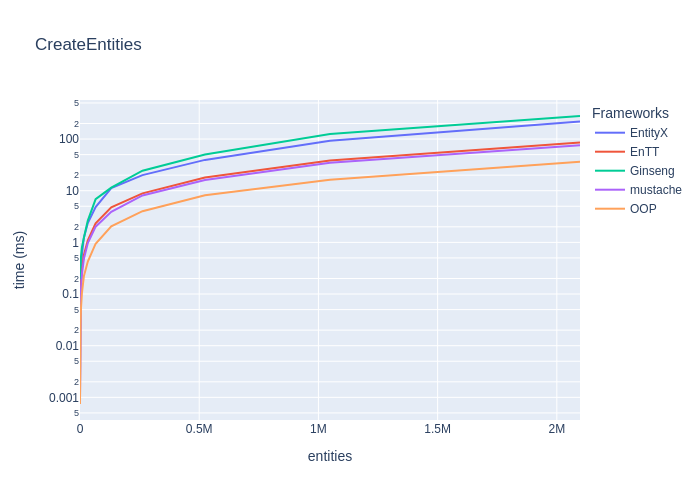
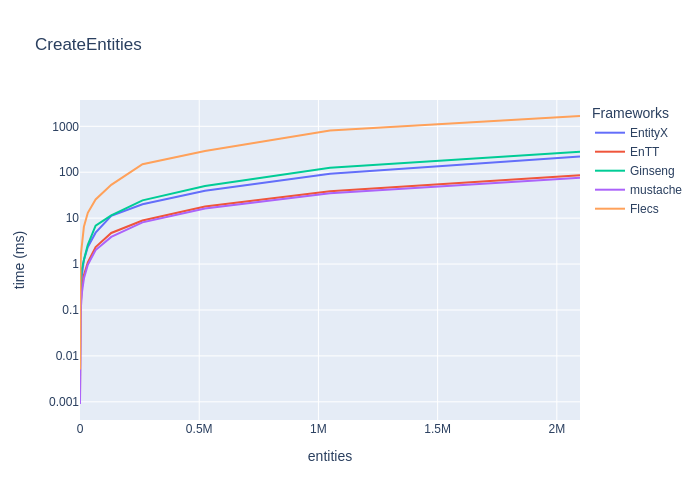
update README.md

diff --git a/README.md b/README.md
@@ -4,6 +4,7 @@ Simple Benchmark of common Entity-Component-Systems:
 
 * [EntityX](https://github.com/alecthomas/entityx)
 * [EnTT](https://github.com/skypjack/entt)
+* [flecs](https://github.com/SanderMertens/flecs)
 * [Ginseng](https://github.com/apples/ginseng)
 * [mustache](https://github.com/kirillochnev/mustache)
 * [OpenEcs](https://github.com/Gronis/OpenEcs)
@@ -13,14 +14,15 @@ Simple Benchmark of common Entity-Component-Systems:
 ![Summary SystemsUpdate Plot](img/SystemsUpdate.png)
 _(lower is faster)_
 
-|                                      | EntityX   | EnTT    | Ginseng   | mustache   |
-|:-------------------------------------|:----------|:--------|:----------|:-----------|
-| Update   16K entities with 2 Systems | 0.0022s   | 0.0004s | 0.0017s   | 0.0011s    |
-| Update   65K entities with 2 Systems | 0.0090s   | 0.0016s | 0.0053s   | 0.0052s    |
-| Update  262K entities with 2 Systems | 0.0339s   | 0.0062s | 0.0166s   | 0.0199s    |
-| Update  524K entities with 2 Systems | 0.0681s   | 0.0132s | 0.0336s   | 0.0357s    |
-| Update    1M entities with 2 Systems | 0.1069s   | 0.0264s | 0.0579s   | 0.0683s    |
-| Update    2M entities with 2 Systems | 0.2929s   | 0.0508s | 0.1374s   | 0.1323s    |
+
+|                                      | EntityX   | EnTT    | Ginseng   | mustache   | Flecs       |
+|:-------------------------------------|:----------|:--------|:----------|:-----------|:------------|
+| Update   16K entities with 2 Systems | 0.0022s   | 0.0004s | 0.0017s   | 0.0011s    | **0.0003s** |
+| Update   65K entities with 2 Systems | 0.0090s   | 0.0016s | 0.0053s   | 0.0052s    | **0.0012s** |
+| Update  262K entities with 2 Systems | 0.0339s   | 0.0062s | 0.0166s   | 0.0199s    | **0.0045s** |
+| Update  524K entities with 2 Systems | 0.0681s   | 0.0132s | 0.0336s   | 0.0357s    | **0.0089s** |
+| Update    1M entities with 2 Systems | 0.1069s   | 0.0264s | 0.0579s   | 0.0683s    | **0.0175s** |
+| Update    2M entities with 2 Systems | 0.2929s   | 0.0508s | 0.1374s   | 0.1323s    | **0.0329s** |
 
 ### Environment
 
@@ -55,14 +57,14 @@ Each framework has a sub-project in [`src/`](src) and must implement certain fea
 ![CreateEntities Plot](img/CreateEntities.png)
 _(lower is better)_
 
-|                                           | EntityX   | EnTT    | Ginseng   | mustache   | OOP     |
-|:------------------------------------------|:----------|:--------|:----------|:-----------|:--------|
-| Create   16K entities with two Components | 0.0012s   | 0.0006s | 0.0012s   | 0.0005s    | 0.0002s |
-| Create   65K entities with two Components | 0.0048s   | 0.0023s | 0.0069s   | 0.0020s    | 0.0009s |
-| Create  262K entities with two Components | 0.0200s   | 0.0089s | 0.0244s   | 0.0081s    | 0.0040s |
-| Create  524K entities with two Components | 0.0395s   | 0.0180s | 0.0502s   | 0.0161s    | 0.0082s |
-| Create    1M entities with two Components | 0.0923s   | 0.0385s | 0.1250s   | 0.0349s    | 0.0164s |
-| Create    2M entities with two Components | 0.2191s   | 0.0855s | 0.2793s   | 0.0762s    | 0.0365s |
+|                                           | EntityX   | EnTT    | Ginseng   | mustache    | Flecs   |
+|:------------------------------------------|:----------|:--------|:----------|:------------|:--------|
+| Create   16K entities with two Components | 0.0012s   | 0.0006s | 0.0012s   | **0.0005s** | 0.0065s |
+| Create   65K entities with two Components | 0.0048s   | 0.0023s | 0.0069s   | **0.0020s** | 0.0256s |
+| Create  262K entities with two Components | 0.0200s   | 0.0089s | 0.0244s   | **0.0081s** | 0.1498s |
+| Create  524K entities with two Components | 0.0395s   | 0.0180s | 0.0502s   | **0.0161s** | 0.2904s |
+| Create    1M entities with two Components | 0.0923s   | 0.0385s | 0.1250s   | **0.0349s** | 0.8126s |
+| Create    2M entities with two Components | 0.2191s   | 0.0855s | 0.2793s   | **0.0762s** | 1.6758s |
 
 
 ### Destroy Entities
@@ -70,15 +72,14 @@ _(lower is better)_
 ![DestroyEntities Plot](img/DestroyEntities.png)
 _(lower is faster)_
 
-|                                            | EntityX   | EnTT    | Ginseng   | mustache   | OOP        |
-|:-------------------------------------------|:----------|:--------|:----------|:-----------|:-----------|
-| Destroy    4K entities with two Components | 0.0001s   | 0.0002s | 0.0004s   | 0.0001s    | 0.0056s    |
-| Destroy   16K entities with two Components | 0.0006s   | 0.0006s | 0.0020s   | 0.0003s    | 0.1028s    |
-| Destroy   65K entities with two Components | 0.0023s   | 0.0029s | 0.0070s   | 0.0011s    | 3.0647s    |
-| Destroy  262K entities with two Components | 0.0092s   | 0.0099s | 0.0308s   | 0.0046s    | 45.8033s   |
-| Destroy  524K entities with two Components | 0.0195s   | 0.0199s | 0.0660s   | 0.0093s    | 189.8928s  |
-| Destroy    1M entities with two Components | 0.0388s   | 0.0452s | 0.2165s   | 0.0193s    | 801.6220s  |
-| Destroy    2M entities with two Components | 0.0831s   | 0.1056s | 0.3556s   | 0.0396s    | 3264.5848s |
+|                                            | EntityX   | EnTT    | Ginseng   | mustache    | Flecs   |
+|:-------------------------------------------|:----------|:--------|:----------|:------------|:--------|
+| Destroy   16K entities with two Components | 0.0006s   | 0.0006s | 0.0020s   | **0.0003s** | 0.0013s |
+| Destroy   65K entities with two Components | 0.0023s   | 0.0029s | 0.0070s   | **0.0011s** | 0.0050s |
+| Destroy  262K entities with two Components | 0.0092s   | 0.0099s | 0.0308s   | **0.0046s** | 0.0213s |
+| Destroy  524K entities with two Components | 0.0195s   | 0.0199s | 0.0660s   | **0.0093s** | 0.0435s |
+| Destroy    1M entities with two Components | 0.0388s   | 0.0452s | 0.2165s   | **0.0193s** | 0.1073s |
+| Destroy    2M entities with two Components | 0.0831s   | 0.1056s | 0.3556s   | **0.0396s** | 0.2116s |
 
 
 ### Get one component from Entity
@@ -86,14 +87,14 @@ _(lower is faster)_
 ![UnpackOneComponent Plot](img/UnpackOneComponent.png)
 _(lower is faster)_
 
-|                                        | EntityX   | EnTT    | Ginseng   | mustache   | OOP     |
-|:---------------------------------------|:----------|:--------|:----------|:-----------|:--------|
-| Unpack one Component in   16K entities | 0.0001s   | 0.0002s | 0.0001s   | 0.0003s    | 0.0003s |
-| Unpack one Component in   65K entities | 0.0003s   | 0.0006s | 0.0006s   | 0.0013s    | 0.0013s |
-| Unpack one Component in  262K entities | 0.0015s   | 0.0032s | 0.0062s   | 0.0054s    | 0.0054s |
-| Unpack one Component in  524K entities | 0.0028s   | 0.0058s | 0.0109s   | 0.0108s    | 0.0117s |
-| Unpack one Component in    1M entities | 0.0061s   | 0.0108s | 0.0206s   | 0.0219s    | 0.0216s |
-| Unpack one Component in    2M entities | 0.0117s   | 0.0216s | 0.0430s   | 0.0434s    | 0.0432s |
+|                                        | EntityX     | EnTT    | Ginseng     | mustache   | Flecs   |
+|:---------------------------------------|:------------|:--------|:------------|:-----------|:--------|
+| Unpack one Component in   16K entities | **0.0001s** | 0.0002s | **0.0001s** | 0.0003s    | 0.0020s |
+| Unpack one Component in   65K entities | **0.0003s** | 0.0006s | 0.0006s     | 0.0013s    | 0.0082s |
+| Unpack one Component in  262K entities | **0.0015s** | 0.0032s | 0.0062s     | 0.0054s    | 0.0330s |
+| Unpack one Component in  524K entities | **0.0028s** | 0.0058s | 0.0109s     | 0.0108s    | 0.0681s |
+| Unpack one Component in    1M entities | **0.0061s** | 0.0108s | 0.0206s     | 0.0219s    | 0.1342s |
+| Unpack one Component in    2M entities | **0.0117s** | 0.0216s | 0.0430s     | 0.0434s    | 0.2719s |
 
 
 ### Get two components from Entity
@@ -101,14 +102,14 @@ _(lower is faster)_
 ![UnpackTwoComponents Plot](img/UnpackTwoComponents.png)
 _(lower is faster)_
 
-|                                        | EntityX   | EnTT    | Ginseng   | mustache   | OOP     |
-|:---------------------------------------|:----------|:--------|:----------|:-----------|:--------|
-| Unpack two Component in   16K entities | 0.0003s   | 0.0003s | 0.0004s   | 0.0006s    | 0.0006s |
-| Unpack two Component in   65K entities | 0.0008s   | 0.0013s | 0.0023s   | 0.0024s    | 0.0024s |
-| Unpack two Component in  262K entities | 0.0033s   | 0.0052s | 0.0081s   | 0.0099s    | 0.0097s |
-| Unpack two Component in  524K entities | 0.0078s   | 0.0102s | 0.0185s   | 0.0201s    | 0.0194s |
-| Unpack two Component in    1M entities | 0.0137s   | 0.0216s | 0.0481s   | 0.0398s    | 0.0389s |
-| Unpack two Component in    2M entities | 0.0268s   | 0.0420s | 0.0675s   | 0.0800s    | 0.0779s |
+|                                        | EntityX     | EnTT    | Ginseng   | mustache   | Flecs   |
+|:---------------------------------------|:------------|:--------|:----------|:-----------|:--------|
+| Unpack two Component in   16K entities | **0.0003s** | 0.0003s | 0.0004s   | 0.0006s    | 0.0040s |
+| Unpack two Component in   65K entities | **0.0008s** | 0.0013s | 0.0023s   | 0.0024s    | 0.0162s |
+| Unpack two Component in  262K entities | **0.0033s** | 0.0052s | 0.0081s   | 0.0099s    | 0.0657s |
+| Unpack two Component in  524K entities | **0.0078s** | 0.0102s | 0.0185s   | 0.0201s    | 0.1312s |
+| Unpack two Component in    1M entities | **0.0137s** | 0.0216s | 0.0481s   | 0.0398s    | 0.2708s |
+| Unpack two Component in    2M entities | **0.0268s** | 0.0420s | 0.0675s   | 0.0800s    | 0.5280s |
 
 
 ### Get three components from Entity
@@ -116,14 +117,14 @@ _(lower is faster)_
 ![UnpackThreeComponentsFromMixedEntities Plot](img/UnpackThreeComponentsFromMixedEntities.png)
 _(lower is faster)_
 
-|                                          | EntityX   | EnTT    | Ginseng   | mustache   | OOP     |
-|:-----------------------------------------|:----------|:--------|:----------|:-----------|:--------|
-| Unpack three Component in   16K entities | 0.0004s   | 0.0005s | 0.0010s   | 0.0008s    | 0.0017s |
-| Unpack three Component in   65K entities | 0.0011s   | 0.0019s | 0.0035s   | 0.0034s    | 0.0070s |
-| Unpack three Component in  262K entities | 0.0062s   | 0.0081s | 0.0143s   | 0.0170s    | 0.0285s |
-| Unpack three Component in  524K entities | 0.0091s   | 0.0174s | 0.0268s   | 0.0324s    | 0.0722s |
-| Unpack three Component in    1M entities | 0.0199s   | 0.0318s | 0.0563s   | 0.0624s    | 0.1135s |
-| Unpack three Component in    2M entities | 0.0391s   | 0.0625s | 0.1550s   | 0.1247s    | 0.2264s |
+|                                          | EntityX     | EnTT    | Ginseng   | mustache   | Flecs   |
+|:-----------------------------------------|:------------|:--------|:----------|:-----------|:--------|
+| Unpack three Component in   16K entities | **0.0004s** | 0.0005s | 0.0010s   | 0.0008s    | 0.0064s |
+| Unpack three Component in   65K entities | **0.0011s** | 0.0019s | 0.0035s   | 0.0034s    | 0.0265s |
+| Unpack three Component in  262K entities | **0.0062s** | 0.0081s | 0.0143s   | 0.0170s    | 0.1237s |
+| Unpack three Component in  524K entities | **0.0091s** | 0.0174s | 0.0268s   | 0.0324s    | 0.2544s |
+| Unpack three Component in    1M entities | **0.0199s** | 0.0318s | 0.0563s   | 0.0624s    | 0.6363s |
+| Unpack three Component in    2M entities | **0.0391s** | 0.0625s | 0.1550s   | 0.1247s    | 1.2613s |
 
 
 ### System Updates (for-each entities with 2 Systems)
@@ -131,26 +132,40 @@ _(lower is faster)_
 ![SystemsUpdate Plot](img/SystemsUpdate.png)
 _(lower is faster)_
 
-|                                      | EntityX   | EnTT    | Ginseng   | mustache   | OOP     |
-|:-------------------------------------|:----------|:--------|:----------|:-----------|:--------|
-| Update   16K entities with 2 Systems | 0.0022s   | 0.0004s | 0.0017s   | 0.0011s    | 0.0003s |
-| Update   65K entities with 2 Systems | 0.0090s   | 0.0016s | 0.0053s   | 0.0052s    | 0.0014s |
-| Update  262K entities with 2 Systems | 0.0339s   | 0.0062s | 0.0166s   | 0.0199s    | 0.0062s |
-| Update  524K entities with 2 Systems | 0.0681s   | 0.0132s | 0.0336s   | 0.0357s    | 0.0123s |
-| Update    1M entities with 2 Systems | 0.1069s   | 0.0264s | 0.0579s   | 0.0683s    | 0.0254s |
-| Update    2M entities with 2 Systems | 0.2929s   | 0.0508s | 0.1374s   | 0.1323s    | 0.0506s |
+|                                      | EntityX   | EnTT    | Ginseng   | mustache   | Flecs       |
+|:-------------------------------------|:----------|:--------|:----------|:-----------|:------------|
+| Update   16K entities with 2 Systems | 0.0022s   | 0.0004s | 0.0017s   | 0.0011s    | **0.0003s** |
+| Update   65K entities with 2 Systems | 0.0090s   | 0.0016s | 0.0053s   | 0.0052s    | **0.0012s** |
+| Update  262K entities with 2 Systems | 0.0339s   | 0.0062s | 0.0166s   | 0.0199s    | **0.0045s** |
+| Update  524K entities with 2 Systems | 0.0681s   | 0.0132s | 0.0336s   | 0.0357s    | **0.0089s** |
+| Update    1M entities with 2 Systems | 0.1069s   | 0.0264s | 0.0579s   | 0.0683s    | **0.0175s** |
+| Update    2M entities with 2 Systems | 0.2929s   | 0.0508s | 0.1374s   | 0.1323s    | **0.0329s** |
 
+
+### System Updates (for-each entities with 3 Systems)
+
+![ComplexSystemsUpdate Plot](img/ComplexSystemsUpdate.png)
+_(lower is faster)_
+
+|                                      | EntityX   | EnTT    | Ginseng   | mustache   | Flecs       | _OOP_       |
+|:-------------------------------------|:----------|:--------|:----------|:-----------|:------------|:------------|
+| Update   16K entities with 3 Systems | 0.0031s   | 0.0016s | 0.0014s   | 0.0024s    | **0.0012s** | **0.0003s** |
+| Update   65K entities with 3 Systems | 0.0125s   | 0.0056s | 0.0059s   | 0.0097s    | **0.0048s** | **0.0014s** |
+| Update  262K entities with 3 Systems | 0.0506s   | 0.0231s | 0.0240s   | 0.0404s    | **0.0200s** | **0.0061s** |
+| Update  524K entities with 3 Systems | 0.1008s   | 0.0462s | 0.0589s   | 0.0806s    | **0.0399s** | **0.0124s** |
+| Update    1M entities with 3 Systems | 0.2011s   | 0.0919s | 0.0958s   | 0.1794s    | **0.0797s** | **0.0250s** |
+| Update    2M entities with 3 Systems | 0.3981s   | 0.1977s | 0.1929s   | 0.3626s    | **0.1574s** | **0.0511s** |
 
 
 
 
 ## Contributing
 
-I try to implement the ECS-examples as best as possible for each framework, if you have any improvements, feel free to make a PR or open an issue.
+I try to implement the ECS-examples as good as possible for each framework, if you have any improvements, feel free to make a PR or open an issue.
 
-See frameworks example(s) in [`src/`](src/) and benchmark [`benchmarks/`](benchmarks/benchmarks/) for more details.  
-You can also write tests for the framework example :)
-Also add some meta data in [info.json](info.json).
+You can find the frameworks example(s) in [`src/`](src/) and benchmark [`benchmarks/`](benchmarks/benchmarks/) for more details.  
+Also you can write tests for the framework example :)
+and add some metadata in [info.json](info.json).
 
 _TODO: make more detailed "how to add framework"_
 
@@ -176,3 +191,4 @@ _You need python and some dependencies to run [gen-benchmark-report](scripts/gen
  * [Building Details](doc/README_building.md)
  * Project Template, mix of: [starter_template](https://github.com/cpp-best-practices/gui_starter_template) and [ModernCppStarter](https://github.com/TheLartians/ModernCppStarter)
  * [Google benchmark](https://github.com/google/benchmark)
+ * https://github.com/SanderMertens/ecs-faq
